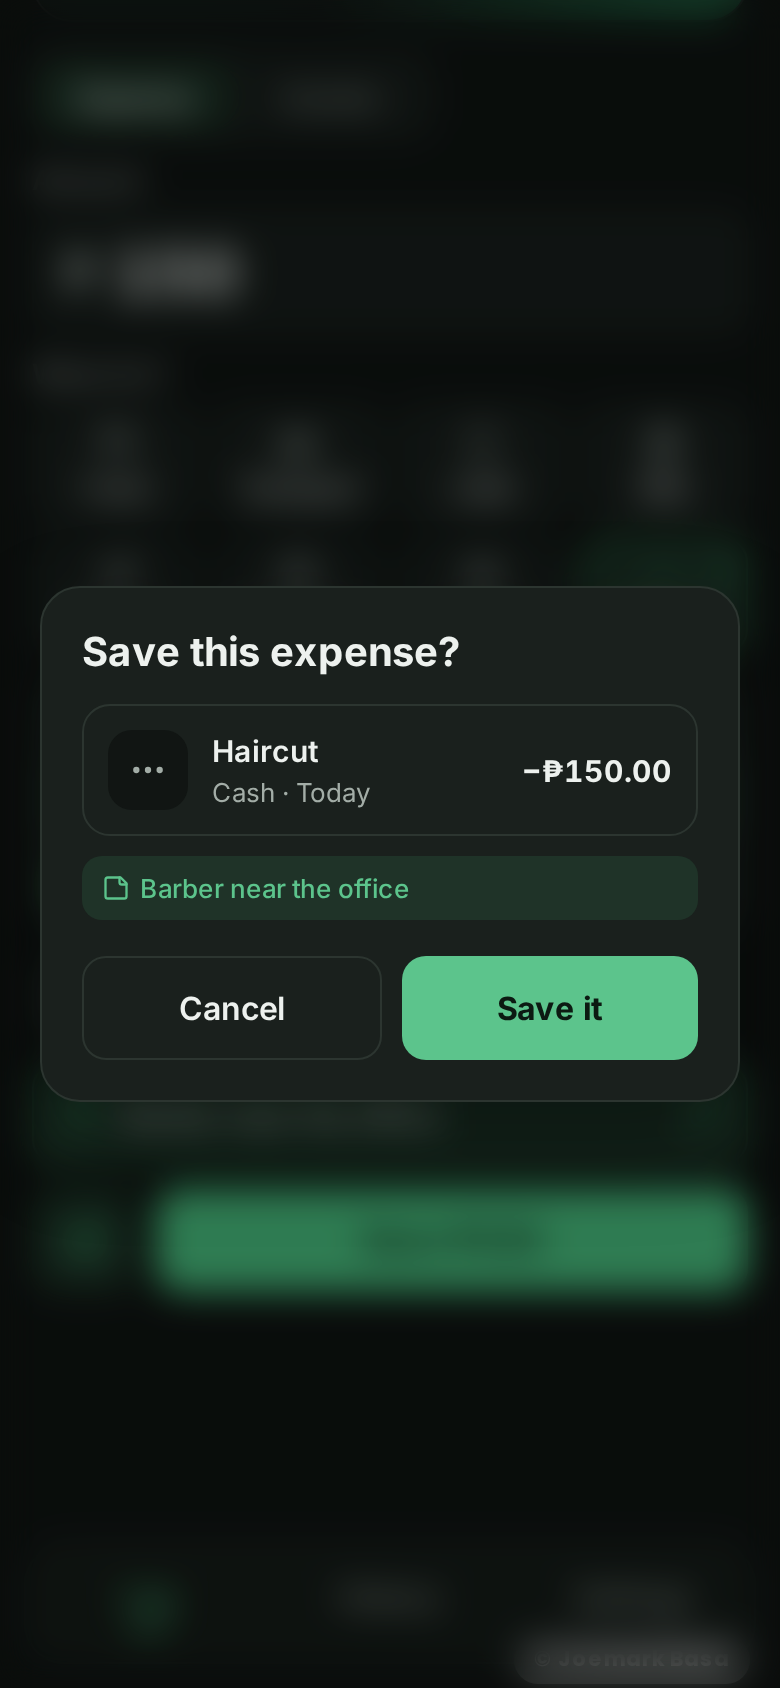
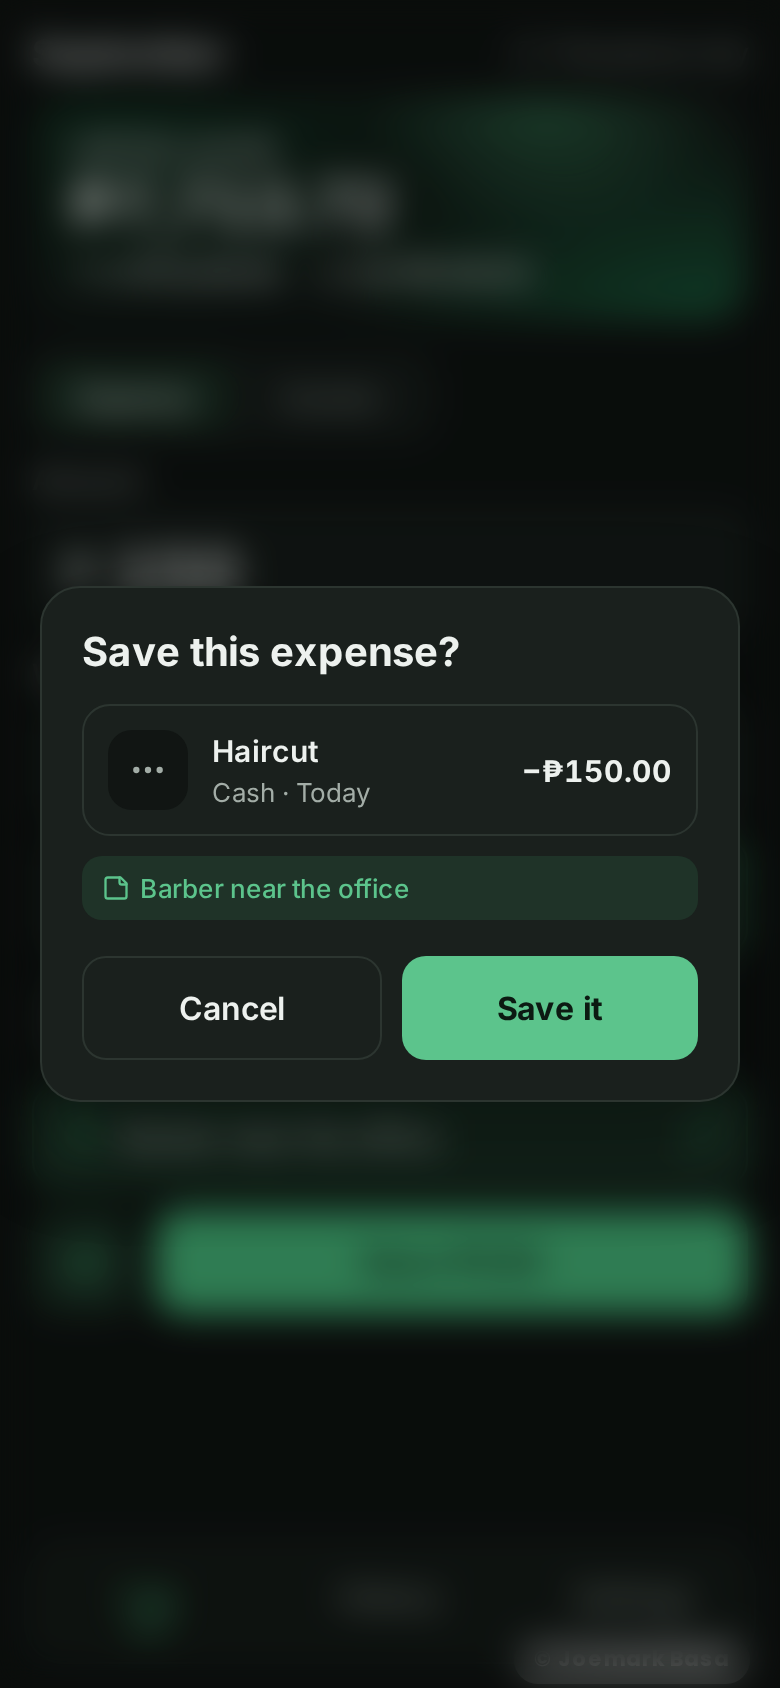
Mockups 3.1: drop the outdated Other box from the review page
Update 5 now shows the current design (centered pop-up with your list),
and the Save pop-up mockup no longer has the old box behind it.

Claude-Session: https://claude.ai/code/session_015nXdEW66MzNZpF9pMsWtRi

diff --git a/docs/mockups/3.1/review.html b/docs/mockups/3.1/review.html
@@ -63,7 +63,7 @@ footer{margin-top:56px;color:var(--muted);font-size:14px}
     <span class="pill">Round 1 built · round 3 for review</span>
   </div>
   <nav class="toc" aria-label="Sections">
-    <a href="#round2">Round 3 · Your list behind Other</a><a href="#built">Built since round 1</a>
+    <a href="#round2">Round 3 · Your list behind Other</a><a href="#built">Built: History details</a>
     <a href="#themes">1 · Color themes</a><a href="#faq">2 · FAQ</a><a href="#blur">3 · Blurred pop-ups</a>
     <a href="#back">4 · Back button</a><a href="#other">5 · “Other” label</a><a href="#note">6 · Note</a><a href="#questions">Questions</a>
   </nav>
@@ -96,10 +96,9 @@ footer{margin-top:56px;color:var(--muted);font-size:14px}
 </section>
 
 <section id="built">
-  <h2><small>Built since round 1</small>Other pop-up and History details</h2>
-  <p class="what">Already on the branch, from your last two requests. These screenshots are from the real app, not mockups. Tapping Other opens a pop-up instead of a box under the tiles. Tapping an entry in History shows everything about it, with <b>Edit</b> at the top.</p>
+  <h2><small>Built since round 1</small>History details</h2>
+  <p class="what">Already on the branch. These screenshots are from the real app, not mockups. Tapping an entry in History shows everything about it, with <b>Edit</b> at the top.</p>
   <div class="shots">
-    <figure><img src="img/built-other-popup.png" alt="The built What was it pop-up"><figcaption>Other pop-up (built, will become the list above)</figcaption></figure>
     <figure><img src="img/built-details-light.png" alt="The built entry details pop-up in light mode"><figcaption>History entry details</figcaption></figure>
     <figure><img src="img/built-details-dark.png" alt="The built entry details pop-up in dark mode"><figcaption>History entry details, dark</figcaption></figure>
   </div>
@@ -161,14 +160,15 @@ footer{margin-top:56px;color:var(--muted);font-size:14px}
 
 <section id="other">
   <h2><small>Update 5</small>Name your own “Other”</h2>
-  <p class="what">Tapping <b>Other</b> opens a small “What was it?” box right under the tiles. Whatever you type becomes the tile's label and the entry's category, so History shows “Haircut” instead of “Other”. A tick box, on by default (<b>decided</b>), keeps it as a tile for next time. It's the same as adding it under Settings → Categories, just without leaving the Log screen.</p>
+  <p class="what">Tapping <b>Other</b> opens a centered “What was it?” pop-up. Pick a name from your list, or type a new one. The name becomes the entry's category, so History shows “Haircut” instead of “Other”, and the Other tile shows it too. New names are saved to your list for next time (ticked by default). The main grid always stays at the original 8 tiles. The full design is in <a href="#round2">Round 3</a> above.</p>
   <ul class="points">
-    <li>If you leave the box empty, the entry saves as plain “Other”, same as today.</li>
-    <li>The same box works for “Other income” on the Income side.</li>
+    <li>Pin the names you use most; the rest are sorted by most used.</li>
+    <li>If you leave it empty, the entry saves as plain “Other”, same as today.</li>
+    <li>The same pop-up works for “Other income” on the Income side.</li>
   </ul>
   <div class="shots">
-    <figure><img src="img/other-light.png" alt="Log screen with Other tapped, showing a What was it box filled with Haircut"><figcaption>Other → “Haircut” (scrolled down a little)</figcaption></figure>
-    <figure><img src="img/other-dark.png" alt="Same Other flow in dark mode"><figcaption>Other, dark</figcaption></figure>
+    <figure><img src="img/r2-olist-light.png" alt="The centered What was it pop-up with pinned names on top"><figcaption>Tap Other: the pop-up</figcaption></figure>
+    <figure><img src="img/r2-grid8-light.png" alt="Log screen, the Other tile reads Coffee"><figcaption>After picking: the Other tile shows the name</figcaption></figure>
   </div>
 </section>
 
@@ -185,7 +185,7 @@ footer{margin-top:56px;color:var(--muted);font-size:14px}
   <h2><small>Before I build</small>Decisions and what's left</h2>
   <ol class="qs">
     <li><b>Theme scope: follows the account.</b> Your agent runs one new database file when publishing (<code>supabase/migration-v3.1.sql</code>). It adds a <code>color_theme</code> column to the settings table, limited to the 8 theme names. Existing access rules already cover it. Older app versions leave it alone, and the new app keeps working if it runs before the file is applied.</li>
-    <li><b>Other: “Keep as a tile” ticked by default.</b></li>
+    <li><b>Other: new names are saved to your list by default</b> (untick to use a name just once).</li>
     <li><b>Note: the colored box, as drawn.</b></li>
     <li><b>Back button: fix Android</b> (APK, Chrome and home screen). iPhone keeps its on-screen close buttons.</li>
     <li><b>Still open:</b> are the 8 themes right, and is there anything to add to the FAQ? If this round looks good, tell me to build.</li>

diff --git a/docs/mockups/3.1/mock.html b/docs/mockups/3.1/mock.html
@@ -315,7 +315,7 @@ function confirmDlg(){
 let html = '';
 if (S==='log') html = log();
 else if (S==='other') html = log({cat:'Other', other:'Haircut', amt:'150', note:'Barber near the office', scroll:150});
-else if (S==='confirm') html = log({cat:'Other', other:'Haircut', amt:'150', note:'Barber near the office', scroll:150}) + confirmDlg();
+else if (S==='confirm') html = log({cat:'Other', picked:'Haircut', amt:'150', note:'Barber near the office'}) + confirmDlg();
 else if (S==='filled') html = log({cat:'Food', amt:'185', note:'Jollibee lunch', wallet:'GCash'});
 else if (S==='back') html = log({backhint:true});
 else if (S==='grid8') html = log({cat:'Other', picked:'Coffee', amt:'120', note:'Iced latte'});
